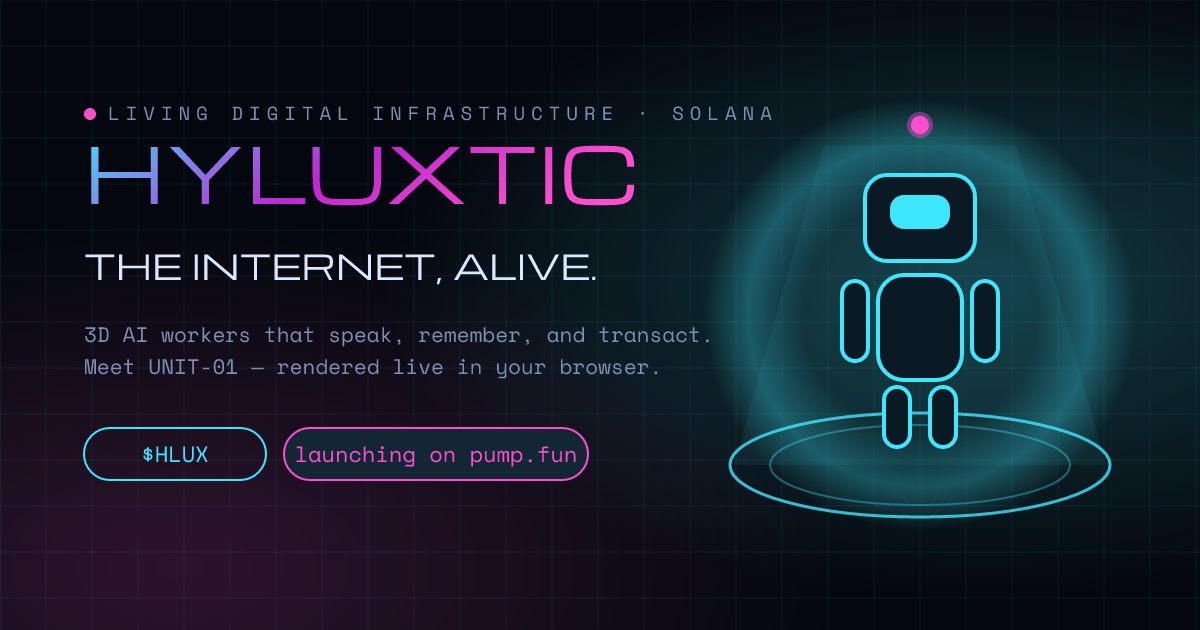
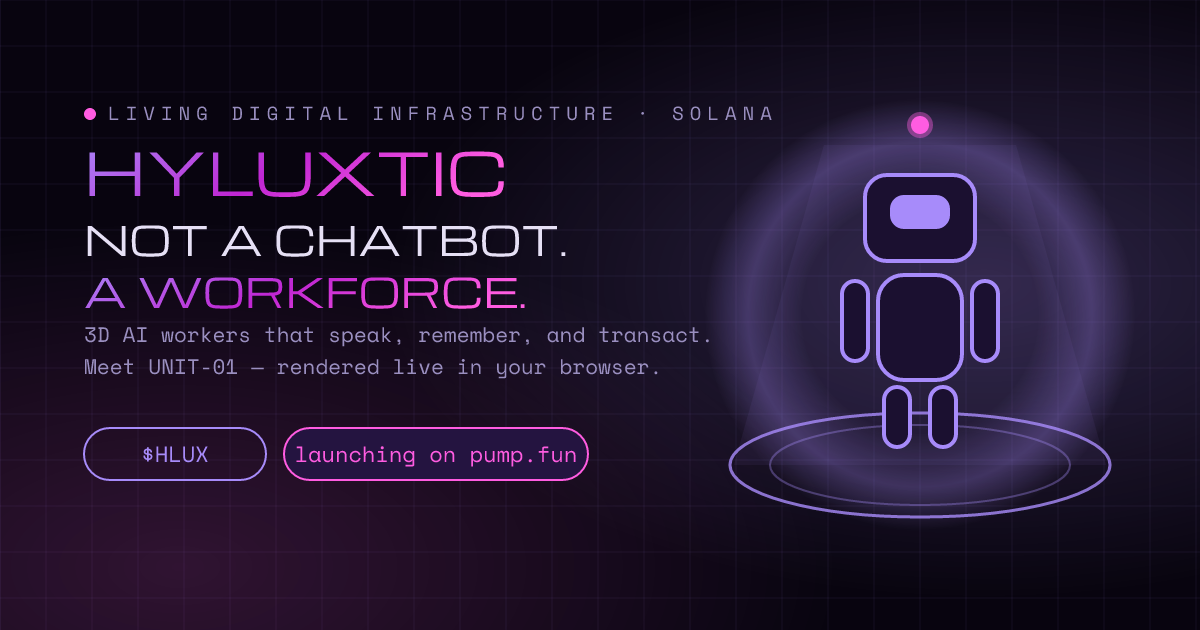
Presence concept redesign: reference-style hero, violet default, $HLUX core cube
- Hero rebuilt to the 'presence' concept: Archivo 900 two-line statement
  ('NOT A CHATBOT. / A WORKFORCE.' with italic gradient), filled-gradient
  CTA, corner brackets + 'rendered live' caption on the visual
- Violet is now the default theme; nebula radial glows behind the page,
  richer violet-tinted design tokens
- Holo-Core core replaced with a glowing rounded $HLUX cube — branded 'H'
  faces drawn on a CanvasTexture, additive halo, wireframe shell kept
- Section headings moved to Archivo 800 with italic gradient accents
- OG image regenerated in the violet palette with the new headline

diff --git a/src/index.css b/src/index.css
@@ -4,16 +4,17 @@
    ============================================================ */
 
 :root {
-  --bg: #04070d;
-  --accent: #3de8ff;
-  --accent2: #ff4ecd;
-  --text: #dce8ff;
-  --muted: #7d8fb3;
-  --muted-2: #55658a;
-  --line: rgba(140, 180, 255, 0.14);
-  --line-strong: rgba(140, 180, 255, 0.3);
-  --panel: rgba(9, 15, 28, 0.62);
+  --bg: #08040f;
+  --accent: #a78bfa;
+  --accent2: #ff5ce1;
+  --text: #e6e0f5;
+  --muted: #9a8fc0;
+  --muted-2: #675e8f;
+  --line: rgba(167, 139, 250, 0.14);
+  --line-strong: rgba(167, 139, 250, 0.32);
+  --panel: rgba(16, 10, 30, 0.62);
   --display: "Michroma", sans-serif;
+  --headline: "Archivo", "Michroma", sans-serif;
   --mono: "Space Mono", monospace;
 }
 
@@ -27,14 +28,43 @@ html {
   scroll-behavior: smooth;
 }
 
-body {
+html {
   background: var(--bg);
+  transition: background 0.6s ease;
+}
+
+body {
+  background: transparent;
   color: var(--text);
   font-family: var(--mono);
   font-size: 15px;
   line-height: 1.65;
   overflow-x: hidden;
-  transition: background 0.6s ease;
+}
+
+/* nebula atmosphere — theme-aware radial glows behind everything */
+body::before {
+  content: "";
+  position: fixed;
+  inset: 0;
+  z-index: -1;
+  pointer-events: none;
+  background:
+    radial-gradient(
+      900px 640px at 82% 8%,
+      color-mix(in srgb, var(--accent) 13%, transparent),
+      transparent 70%
+    ),
+    radial-gradient(
+      760px 700px at 8% 96%,
+      color-mix(in srgb, var(--accent2) 9%, transparent),
+      transparent 70%
+    ),
+    radial-gradient(
+      1200px 500px at 50% 45%,
+      color-mix(in srgb, var(--accent) 4%, transparent),
+      transparent 75%
+    );
 }
 
 ::selection {
@@ -226,6 +256,29 @@ kbd {
   border-color: color-mix(in srgb, var(--accent) 55%, transparent);
 }
 
+/* filled gradient CTA — the reference-style primary button */
+.btn--primary {
+  border: 0;
+  border-radius: 12px;
+  background: linear-gradient(
+    100deg,
+    color-mix(in srgb, var(--accent) 85%, #6d28d9),
+    var(--accent2)
+  );
+  color: #fff;
+  font-weight: 700;
+  box-shadow:
+    0 8px 30px color-mix(in srgb, var(--accent2) 35%, transparent),
+    inset 0 1px 0 rgba(255, 255, 255, 0.25);
+}
+
+.btn--primary:hover {
+  transform: translateY(-2px);
+  box-shadow:
+    0 12px 44px color-mix(in srgb, var(--accent2) 50%, transparent),
+    inset 0 1px 0 rgba(255, 255, 255, 0.3);
+}
+
 .btn--solid:hover {
   box-shadow:
     0 0 22px color-mix(in srgb, var(--accent) 35%, transparent),
@@ -277,6 +330,31 @@ kbd {
   display: block;
 }
 
+.hero__visual::after {
+  content: "";
+  position: absolute;
+  inset: -12%;
+  z-index: -1;
+  pointer-events: none;
+  background: radial-gradient(
+    circle at 50% 45%,
+    color-mix(in srgb, var(--accent) 14%, transparent),
+    transparent 62%
+  );
+  filter: blur(8px);
+}
+
+.hero__caption {
+  position: absolute;
+  right: 8px;
+  bottom: 4px;
+  font-size: 10px;
+  letter-spacing: 0.3em;
+  text-transform: uppercase;
+  color: var(--muted-2);
+  pointer-events: none;
+}
+
 .hero__grid {
   position: absolute;
   inset: -80px -50vw 0;
@@ -323,11 +401,11 @@ kbd {
 
 .hero__title {
   margin-top: 26px;
-  font-family: var(--display);
-  font-weight: 400;
-  font-size: clamp(2.1rem, 6.4vw, 4.6rem);
-  line-height: 1.14;
-  letter-spacing: 0.02em;
+  font-family: var(--headline);
+  font-weight: 900;
+  font-size: clamp(2.7rem, 6.8vw, 5.4rem);
+  line-height: 1.03;
+  letter-spacing: 0.005em;
   text-transform: uppercase;
 }
 
@@ -341,6 +419,8 @@ kbd {
 }
 
 .holo-sweep {
+  font-style: italic;
+  padding-right: 0.09em; /* italic overhang would clip against background-clip */
   background-image: linear-gradient(
     100deg,
     var(--accent),
@@ -497,12 +577,17 @@ kbd {
 
 .section__head h2 {
   margin-top: 14px;
-  font-family: var(--display);
-  font-weight: 400;
-  font-size: clamp(1.4rem, 3.2vw, 2.2rem);
-  line-height: 1.3;
+  font-family: var(--headline);
+  font-weight: 800;
+  font-size: clamp(1.7rem, 3.8vw, 2.7rem);
+  line-height: 1.12;
   text-transform: uppercase;
-  letter-spacing: 0.02em;
+  letter-spacing: 0.005em;
+}
+
+.section__head h2 .text-holo {
+  font-style: italic;
+  padding-right: 0.09em;
 }
 
 .section__head p {

diff --git a/src/scene/HeroOrnament.tsx b/src/scene/HeroOrnament.tsx
@@ -1,7 +1,13 @@
 import { useMemo, useRef } from "react";
 import * as THREE from "three";
 import { Canvas, useFrame } from "@react-three/fiber";
-import { Environment, Float, Lightformer, Sparkles } from "@react-three/drei";
+import {
+  Environment,
+  Float,
+  Lightformer,
+  RoundedBox,
+  Sparkles,
+} from "@react-three/drei";
 import type { Theme } from "../config";
 
 /* "Holo-Core" — the Hyluxtic power source. An iridescent core suspended in a
@@ -67,9 +73,42 @@ function Satellites({ color }: { color: THREE.Color }) {
   );
 }
 
+/** Branded face texture — a glowing "H" on dark glass, redrawn per theme. */
+function useBrandTexture(color: string) {
+  return useMemo(() => {
+    const canvas = document.createElement("canvas");
+    canvas.width = canvas.height = 256;
+    const ctx = canvas.getContext("2d");
+    if (ctx) {
+      ctx.fillStyle = "#0b0616";
+      ctx.fillRect(0, 0, 256, 256);
+      ctx.globalAlpha = 0.4;
+      ctx.strokeStyle = color;
+      ctx.lineWidth = 5;
+      ctx.strokeRect(16, 16, 224, 224);
+      ctx.globalAlpha = 1;
+      ctx.textAlign = "center";
+      ctx.textBaseline = "middle";
+      ctx.font = "900 165px Archivo, 'Arial Black', sans-serif";
+      ctx.shadowColor = color;
+      ctx.shadowBlur = 34;
+      ctx.fillStyle = color;
+      ctx.fillText("H", 128, 138);
+      ctx.shadowBlur = 12;
+      ctx.fillStyle = "#ffffff";
+      ctx.globalAlpha = 0.85;
+      ctx.font = "900 150px Archivo, 'Arial Black', sans-serif";
+      ctx.fillText("H", 128, 138);
+    }
+    const texture = new THREE.CanvasTexture(canvas);
+    texture.colorSpace = THREE.SRGBColorSpace;
+    return texture;
+  }, [color]);
+}
+
 function Core({ theme }: { theme: Theme }) {
   const groupRef = useRef<THREE.Group>(null);
-  const coreRef = useRef<THREE.Mesh>(null);
+  const coreRef = useRef<THREE.Group>(null);
 
   const accent = useMemo(() => new THREE.Color(theme.accent), [theme.accent]);
   const accent2 = useMemo(() => new THREE.Color(theme.accent2), [theme.accent2]);
@@ -95,34 +134,37 @@ function Core({ theme }: { theme: Theme }) {
     }
   });
 
+  const brandTexture = useBrandTexture(theme.accent);
+
   return (
     <group ref={groupRef}>
       <Float speed={1.6} rotationIntensity={0.15} floatIntensity={0.7}>
-        {/* iridescent core */}
-        <mesh ref={coreRef}>
-          <icosahedronGeometry args={[1.05, 1]} />
-          <meshPhysicalMaterial
-            color={new THREE.Color(theme.body)}
-            metalness={0.85}
-            roughness={0.18}
-            clearcoat={1}
-            clearcoatRoughness={0.2}
-            iridescence={1}
-            iridescenceIOR={1.6}
-            emissive={new THREE.Color(theme.emissive)}
-            emissiveIntensity={0.6}
-            envMapIntensity={2.2}
-            flatShading
-          />
-        </mesh>
+        {/* the $HLUX core — glowing branded cube */}
+        <group ref={coreRef}>
+          <RoundedBox args={[1.55, 1.55, 1.55]} radius={0.14} smoothness={4}>
+            <meshBasicMaterial map={brandTexture} toneMapped={false} />
+          </RoundedBox>
+          {/* additive halo shell */}
+          <mesh scale={1.12}>
+            <boxGeometry args={[1.55, 1.55, 1.55]} />
+            <meshBasicMaterial
+              color={accent}
+              transparent
+              opacity={0.08}
+              blending={THREE.AdditiveBlending}
+              depthWrite={false}
+              toneMapped={false}
+            />
+          </mesh>
+        </group>
         {/* wireframe shell */}
-        <mesh scale={1.45}>
+        <mesh scale={1.5} rotation={[0.5, 0.7, 0.2]}>
           <icosahedronGeometry args={[1.05, 1]} />
           <meshBasicMaterial
             color={accent}
             wireframe
             transparent
-            opacity={0.14}
+            opacity={0.12}
             blending={THREE.AdditiveBlending}
             depthWrite={false}
             toneMapped={false}

diff --git a/src/App.tsx b/src/App.tsx
@@ -680,7 +680,7 @@ export function App() {
               Connect wallet
             </button>
           )}
-          <a className="btn btn--solid" href="#agent">
+          <a className="btn btn--primary" href="#agent">
             Enter the space
           </a>
         </div>
@@ -693,27 +693,29 @@ export function App() {
           <div className="hero__glow" aria-hidden="true" />
           <div className="hero__visual" aria-hidden="true">
             <HeroOrnament theme={theme} />
+            <span className="corner corner--tl" />
+            <span className="corner corner--br" />
+            <div className="hero__caption">$hlux core · rendered live</div>
           </div>
           <div className="hero__content">
           <p className="eyebrow">
-            <span className="eyebrow__dot" /> living digital infrastructure —
-            built on solana
+            <span className="eyebrow__dot" /> presence — the internet, alive
           </p>
           <h1 className="hero__title">
-            <span>The internet,</span>
-            <span className="holo-sweep">alive.</span>
+            <span>Not a chatbot.</span>
+            <span className="holo-sweep">A workforce.</span>
           </h1>
           <p className="hero__sub">
-            Hyluxtic turns static pages into living digital spaces — 3D
-            environments staffed by AI workers that speak, remember, and
-            transact. Below: our first worker, rendered live in your browser.
+            Hyluxtic workers have a face, a voice and a body. They greet your
+            visitors, get things done, then settle up on-chain — living inside
+            your website. Meet them below, rendered live in your browser.
           </p>
           <div className="hero__cta">
-            <a className="btn btn--solid btn--lg" href="#agent">
-              ▶ Meet UNIT-01
+            <a className="btn btn--primary btn--lg" href="#agent">
+              Build your worker ↗
             </a>
-            <a className="btn btn--ghost btn--lg" href="#capabilities">
-              Read the vision
+            <a className="btn btn--ghost btn--lg" href="#token">
+              Explore $HLUX
             </a>
           </div>
           <ul className="hero__stats">

diff --git a/src/config.ts b/src/config.ts
@@ -53,6 +53,17 @@ export interface Theme {
 
 export const THEMES: Theme[] = [
   {
+    id: "violet",
+    label: "Violet",
+    accent: "#a78bfa",
+    accent2: "#ff5ce1",
+    bg: "#08040f",
+    body: "#34205f",
+    emissive: "#29104f",
+    eyes: "#c4b5fd",
+    shadow: "#7c3aed",
+  },
+  {
     id: "spectra",
     label: "Spectra",
     accent: "#3de8ff",
@@ -62,17 +73,6 @@ export const THEMES: Theme[] = [
     emissive: "#0a2e3f",
     eyes: "#66f0ff",
     shadow: "#0891b2",
-  },
-  {
-    id: "violet",
-    label: "Violet",
-    accent: "#a78bfa",
-    accent2: "#ff5ce1",
-    bg: "#070412",
-    body: "#34205f",
-    emissive: "#29104f",
-    eyes: "#c4b5fd",
-    shadow: "#7c3aed",
   },
   {
     id: "aurum",

diff --git a/index.html b/index.html
@@ -32,7 +32,7 @@
     <link rel="preconnect" href="https://fonts.googleapis.com" />
     <link rel="preconnect" href="https://fonts.gstatic.com" crossorigin />
     <link
-      href="https://fonts.googleapis.com/css2?family=Michroma&family=Space+Mono:ital,wght@0,400;0,700;1,400&display=swap"
+      href="https://fonts.googleapis.com/css2?family=Michroma&family=Space+Mono:ital,wght@0,400;0,700;1,400&family=Archivo:ital,wght@0,600..900;1,600..900&display=swap"
       rel="stylesheet"
     />
     <link rel="stylesheet" href="./src/index.css" />